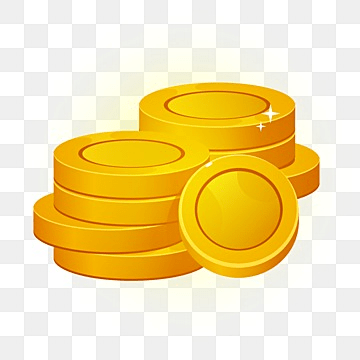
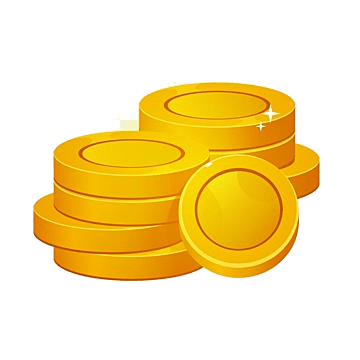
fixed vip and standard7esd

diff --git a/src/components/terminal/MobileBar.tsx b/src/components/terminal/MobileBar.tsx
@@ -4,16 +4,11 @@ import { ArrowDown, ArrowUp, Minus, Plus, Timer } from "lucide-react";
 import { toast } from "sonner";
 import { cn } from "@/lib/utils";
 import { formatMoney } from "@/lib/format";
-import {
-  FIXED_DURATION_SEC,
-  type Instrument,
-} from "@/lib/market/instruments";
+import { FIXED_DURATION_SEC } from "@/lib/market/instruments";
 import {
   clampStake,
-  effectivePayoutBps,
   MAX_STAKE_MINOR,
   MIN_STAKE_MINOR,
-  payoutFromStake,
   QUICK_STAKES_MINOR,
   STAKE_STEP_MINOR,
 } from "@/lib/trading";
@@ -34,14 +29,16 @@ import { playPlace } from "@/lib/sound";
  * rail arrange the *same* mounted chart rather than each rendering their own,
  * which is why the layout switches with CSS and not with a media-query branch
  * that would remount the canvas.
+ *
+ * It takes no instrument: everything the bar decides — how much, which way — is
+ * the same whatever is on the chart, and `placeTrade` reads the live symbol
+ * from the store when it books.
  */
-export function MobileBar({ spec }: { spec: Instrument }) {
+export function MobileBar() {
   const stakeMinor = useStore((s) => BigInt(s.stakeMinor));
   const setStakeMinor = useStore((s) => s.setStakeMinor);
   const placeTrade = useStore((s) => s.placeTrade);
   const balance = useStore(selectBalance);
-  const accountKind = useStore((s) => s.accountKind);
-  const liveTier = useStore((s) => s.liveTier);
 
   // The same three refusals the desktop ticket applies, so a stake accepted on
   // one screen size is accepted on the other.
@@ -49,11 +46,6 @@ export function MobileBar({ spec }: { spec: Instrument }) {
     stakeMinor > balance ||
     stakeMinor < MIN_STAKE_MINOR ||
     stakeMinor > MAX_STAKE_MINOR;
-
-  // Same effective rate the desktop ticket shows — instrument base plus the VIP
-  // live-tier bonus, if it applies.
-  const payoutBps = effectivePayoutBps(spec.payoutBps, accountKind, liveTier);
-  const potential = payoutFromStake(stakeMinor, payoutBps);
 
   const adjust = (delta: bigint) => setStakeMinor(clampStake(stakeMinor + delta));
 
@@ -69,11 +61,35 @@ export function MobileBar({ spec }: { spec: Instrument }) {
 
   return (
     <div className="shrink-0 border-t border-line bg-surface-1 lg:hidden">
-      {/* --- Stake ----------------------------------------------------------
-          The one thing above Buy and Sell, because it is the one decision left
-          to make there. Typed, stepped or tapped — the quick amounts are a
-          shortcut into the same field, not a substitute for it. */}
-      <div className="px-3 pb-2 pt-2.5">
+      {/* --- Commit ---------------------------------------------------------
+          Direction first, amount under it: the thumb rests at the bottom of a
+          phone, and the two full-width targets are what the hand reaches for
+          most. The stake is set once and re-used across contracts, so it sits
+          in the calmer position underneath. */}
+      <div className="grid grid-cols-2 gap-2 px-3 pb-2 pt-2.5">
+        <button
+          onClick={() => submit("UP")}
+          disabled={insufficient}
+          className="flex h-12 items-center justify-center gap-1.5 rounded-none border border-buy bg-buy text-[15px] font-semibold text-white transition-colors active:bg-buy-hover disabled:opacity-40"
+        >
+          <ArrowUp className="h-4 w-4" aria-hidden />
+          Buy
+        </button>
+        <button
+          onClick={() => submit("DOWN")}
+          disabled={insufficient}
+          className="flex h-12 items-center justify-center gap-1.5 rounded-none border border-sell bg-sell text-[15px] font-semibold text-white transition-colors active:bg-sell-hover disabled:opacity-40"
+        >
+          <ArrowDown className="h-4 w-4" aria-hidden />
+          Sell
+        </button>
+      </div>
+
+      {/* --- Stake ---------------------------------------------------------- */}
+      <div
+        className="px-3 pb-3"
+        style={{ paddingBottom: "max(0.75rem, env(safe-area-inset-bottom))" }}
+      >
         <div className="mb-1.5 flex items-baseline gap-3">
           <label
             htmlFor="mobile-stake"
@@ -84,16 +100,9 @@ export function MobileBar({ spec }: { spec: Instrument }) {
 
           {/* Expiry is fixed at ten seconds — stated as a fact, not a control
               you can press and have nothing happen. */}
-          <span className="tnum flex shrink-0 items-center gap-1 font-mono text-[11px] text-ink-faint">
+          <span className="tnum ml-auto flex shrink-0 items-center gap-1 font-mono text-[11px] text-ink-faint">
             <Timer className="h-3 w-3" aria-hidden />
             {FIXED_DURATION_SEC}s
-          </span>
-
-          <span className="tnum ml-auto font-mono text-[11px] text-ink-faint">
-            Returns{" "}
-            <span className="text-ink-secondary">
-              {formatMoney(potential, { currency: "KSh" })}
-            </span>
           </span>
         </div>
 
@@ -154,29 +163,6 @@ export function MobileBar({ spec }: { spec: Instrument }) {
             </Chip>
           ))}
         </div>
-      </div>
-
-      {/* --- Commit --------------------------------------------------------- */}
-      <div
-        className="grid grid-cols-2 gap-2 px-3 pb-3"
-        style={{ paddingBottom: "max(0.75rem, env(safe-area-inset-bottom))" }}
-      >
-        <button
-          onClick={() => submit("UP")}
-          disabled={insufficient}
-          className="flex h-12 items-center justify-center gap-1.5 rounded-none border border-buy bg-buy text-[15px] font-semibold text-white transition-colors active:bg-buy-hover disabled:opacity-40"
-        >
-          <ArrowUp className="h-4 w-4" aria-hidden />
-          Buy
-        </button>
-        <button
-          onClick={() => submit("DOWN")}
-          disabled={insufficient}
-          className="flex h-12 items-center justify-center gap-1.5 rounded-none border border-sell bg-sell text-[15px] font-semibold text-white transition-colors active:bg-sell-hover disabled:opacity-40"
-        >
-          <ArrowDown className="h-4 w-4" aria-hidden />
-          Sell
-        </button>
       </div>
     </div>
   );

diff --git a/src/components/terminal/TradeTicket.tsx b/src/components/terminal/TradeTicket.tsx
@@ -1,7 +1,5 @@
 "use client";
 
-import { useMemo } from "react";
-import { motion } from "framer-motion";
 import { ArrowDown, ArrowUp, Minus, Plus, Timer, Wallet } from "lucide-react";
 import { toast } from "sonner";
 import { cn } from "@/lib/utils";
@@ -15,8 +13,6 @@ import {
   effectivePayoutBps,
   MAX_STAKE_MINOR,
   MIN_STAKE_MINOR,
-  payoutFromStake,
-  profitFromStake,
   QUICK_STAKES_MINOR,
   STAKE_STEP_MINOR,
 } from "@/lib/trading";
@@ -49,17 +45,9 @@ export function TradeTicket({ spec }: { spec: Instrument }) {
   const liveTier = useStore((s) => s.liveTier);
 
   // The rate the customer will actually be booked at — instrument base plus the
-  // VIP live-tier bonus, if it applies. Shown in the quote and the badge so what
-  // is displayed matches what `placeTrade` freezes onto the contract.
+  // live-tier bonus, if it applies. Shown on the ticket so what is displayed
+  // matches what `placeTrade` freezes onto the contract.
   const payoutBps = effectivePayoutBps(spec.payoutBps, accountKind, liveTier);
-
-  const quote = useMemo(
-    () => ({
-      profit: profitFromStake(stakeMinor, payoutBps),
-      total: payoutFromStake(stakeMinor, payoutBps),
-    }),
-    [stakeMinor, payoutBps],
-  );
 
   const tooLow = stakeMinor < MIN_STAKE_MINOR;
   const tooHigh = stakeMinor > MAX_STAKE_MINOR;
@@ -184,30 +172,22 @@ export function TradeTicket({ spec }: { spec: Instrument }) {
         </span>
       </div>
 
-      {/* --- Quote ---------------------------------------------------------- */}
-      <div className="rounded-none border border-line bg-surface-1 p-3">
-        <div className="flex items-baseline justify-between">
-          <span className="text-[10.5px] font-medium uppercase tracking-[0.09em] text-ink-muted">
-            Payout if correct
-          </span>
-          <span className="tnum rounded-none bg-up/10 px-1.5 py-0.5 font-mono text-[11px] font-semibold text-up">
-            +{payoutBps / 100}%
-          </span>
-        </div>
+      {/* --- Rate ------------------------------------------------------------
+          The figure the payout works out to is no longer shown before the
+          commit — what you win lands with the result, at settlement.
 
-        <motion.div
-          key={quote.total.toString()}
-          initial={{ opacity: 0.55 }}
-          animate={{ opacity: 1 }}
-          transition={{ duration: 0.18 }}
-          className="tnum mt-1.5 font-mono text-[26px] leading-none tracking-tight text-ink"
-        >
-          {formatMoney(quote.total, { currency: "KSh" })}
-        </motion.div>
-
-        <div className="tnum mt-1.5 font-mono text-[11.5px] text-ink-muted">
-          {formatMoney(stakeMinor)} stake + {formatMoney(quote.profit)} profit
-        </div>
+          The *rate* stays. It is the price of the contract, not a projection:
+          it is what `placeTrade` freezes onto the position, and someone about
+          to stake money is entitled to the terms they are agreeing to before
+          they agree to them. Removing the amount makes the win a reveal;
+          removing the rate as well would make it a bet on undisclosed odds. */}
+      <div className="flex items-center justify-between border border-line bg-surface-1 px-3 py-2.5">
+        <span className="text-[10.5px] font-medium uppercase tracking-[0.09em] text-ink-muted">
+          Payout rate
+        </span>
+        <span className="tnum rounded-none bg-up/10 px-1.5 py-0.5 font-mono text-[11px] font-semibold text-up">
+          +{payoutBps / 100}%
+        </span>
       </div>
 
       {problem ? (

diff --git a/src/components/terminal/AccountPanel.tsx b/src/components/terminal/AccountPanel.tsx
@@ -10,6 +10,7 @@ import {
   ChartNoAxesColumn,
   ChevronRight,
   CircleHelp,
+  ListOrdered,
   LogOut,
   Wallet,
   X,
@@ -18,7 +19,7 @@ import { cn } from "@/lib/utils";
 import { formatMoney } from "@/lib/format";
 import { formatPhone, useAuth, useCurrentAccount } from "@/lib/auth";
 import { instrumentOrDefault } from "@/lib/market/instruments";
-import { useHistory, useStore } from "@/lib/store";
+import { useHistory, useOpenTrades, useStore } from "@/lib/store";
 import { CashDialog } from "./CashDialog";
 
 /**
@@ -50,6 +51,7 @@ export function AccountPanel({
   const accountKind = useStore((s) => s.accountKind);
   const symbol = useStore((s) => s.symbol);
   const history = useHistory();
+  const openTrades = useOpenTrades();
   const spec = instrumentOrDefault(symbol);
 
   const close = () => onOpenChange(false);
@@ -141,6 +143,25 @@ export function AccountPanel({
                   value={formatMoney(BigInt(balances[accountKind]), {
                     currency: "KSh",
                   })}
+                  onNavigate={close}
+                />
+                {/* The terminal shows this beside the chart, which a phone has
+                    no room for — so the menu is where a small screen reaches
+                    its open contracts and its history. The count is the point
+                    of the row: it answers "have I got anything running" without
+                    opening it. */}
+                <PanelLink
+                  href="/positions"
+                  icon={ListOrdered}
+                  label="Positions"
+                  hint="Open contracts · trade history"
+                  value={
+                    openTrades.length > 0
+                      ? `${openTrades.length} open`
+                      : history.length > 0
+                        ? `${history.length} settled`
+                        : undefined
+                  }
                   onNavigate={close}
                 />
                 <PanelLink

diff --git a/src/components/account/views.tsx b/src/components/account/views.tsx
@@ -24,6 +24,7 @@ import { formatPhone, useCurrentAccount } from "@/lib/auth";
 import { useStore } from "@/lib/store";
 import { Empty, Segmented } from "@/components/ui/primitives";
 import { StatsPanel } from "@/components/terminal/StatsPanel";
+import { Positions } from "@/components/terminal/Positions";
 import { CashDialog, CashRow } from "@/components/terminal/CashDialog";
 import { Column, Columns, Section } from "./AccountShell";
 
@@ -352,6 +353,35 @@ export function StatementSection() {
 // ===========================================================================
 // Performance — results and the market they came from
 // ===========================================================================
+
+/**
+ * Positions, as a destination.
+ *
+ * The terminal keeps this list in a panel beside the chart, which a phone has
+ * no room for — so on a small screen it lives here, reached from the account
+ * menu, and the same component renders it. One implementation of "what are my
+ * contracts doing", not a second one written for mobile that drifts.
+ *
+ * `fill` gives the panel the page's height, so the list scrolls inside its own
+ * frame exactly as it does on the desktop.
+ */
+export function PositionsPage() {
+  return (
+    <Columns>
+      <Column>
+        <Section
+          title="Your contracts"
+          description="Running now, and everything that has settled this session."
+          fill
+        >
+          <div className="min-h-[60vh] lg:h-full lg:min-h-0">
+            <Positions />
+          </div>
+        </Section>
+      </Column>
+    </Columns>
+  );
+}
 
 export function PerformancePage() {
   const symbol = useStore((s) => s.symbol);

diff --git a/src/components/terminal/PriceChart.tsx b/src/components/terminal/PriceChart.tsx
@@ -148,7 +148,12 @@ export function PriceChart({
       },
       rightPriceScale: {
         borderColor: "rgba(255,255,255,0.07)",
-        scaleMargins: { top: 0.12, bottom: 0.12 },
+        // Tighter than the old 12/12. Those margins are dead bands at the top
+        // and bottom of the card — a quarter of the height reserved for nothing
+        // — which left the candles as a thin ribbon floating in the middle of a
+        // tall panel. At 5% the series uses the card it was given and the same
+        // price move draws with roughly a third more height to read it by.
+        scaleMargins: { top: 0.05, bottom: 0.05 },
         entireTextOnly: true,
       },
       timeScale: {

diff --git a/src/components/terminal/MarketHeader.tsx b/src/components/terminal/MarketHeader.tsx
@@ -51,7 +51,9 @@ export function MarketHeader({
   const [marketsOpen, setMarketsOpen] = useState(false);
 
   return (
-    <div className="flex h-14 shrink-0 items-center gap-2 border-b border-line px-3 sm:gap-4 sm:px-4">
+    /* Shorter on a phone: the header is chrome around the chart, and every
+       pixel it keeps is one the candles do not get. */
+    <div className="flex h-12 shrink-0 items-center gap-2 border-b border-line px-3 sm:h-14 sm:gap-4 sm:px-4">
       {/* The desktop has the markets rail beside it, so there the name is a
           heading and nothing more. */}
       <button

diff --git a/src/lib/trading.ts b/src/lib/trading.ts
@@ -111,7 +111,7 @@ export function payoutFromStake(stakeMinor: bigint, payoutBps: number): bigint {
  * desktop refuses would be a different product on a smaller screen.
  */
 export const MIN_STAKE_MINOR = 10_000n; // KSh 100
-export const MAX_STAKE_MINOR = 30_000_000n; // KSh 300,000
+export const MAX_STAKE_MINOR = 20_000_000n; // KSh 200,000
 export const STAKE_STEP_MINOR = 10_000n; // KSh 100
 
 /** The one-tap amounts, in minor units: KSh 100 / 250 / 500 / 1,000. */

diff --git a/src/app/positions/page.tsx b/src/app/positions/page.tsx
@@ -1,0 +1,16 @@
+import type { Metadata } from "next";
+import { AccountShell } from "@/components/account/AccountShell";
+import { PositionsPage } from "@/components/account/views";
+
+export const metadata: Metadata = { title: "Positions" };
+
+export default function Page() {
+  return (
+    <AccountShell
+      title="Positions"
+      description="Contracts running now, and every one that has settled."
+    >
+      <PositionsPage />
+    </AccountShell>
+  );
+}

diff --git a/src/components/terminal/Terminal.tsx b/src/components/terminal/Terminal.tsx
@@ -128,7 +128,7 @@ export function Terminal() {
       </div>
 
       {/* --- Phones --------------------------------------------------------- */}
-      <MobileBar spec={spec} />
+      <MobileBar />
     </div>
   );
 }
